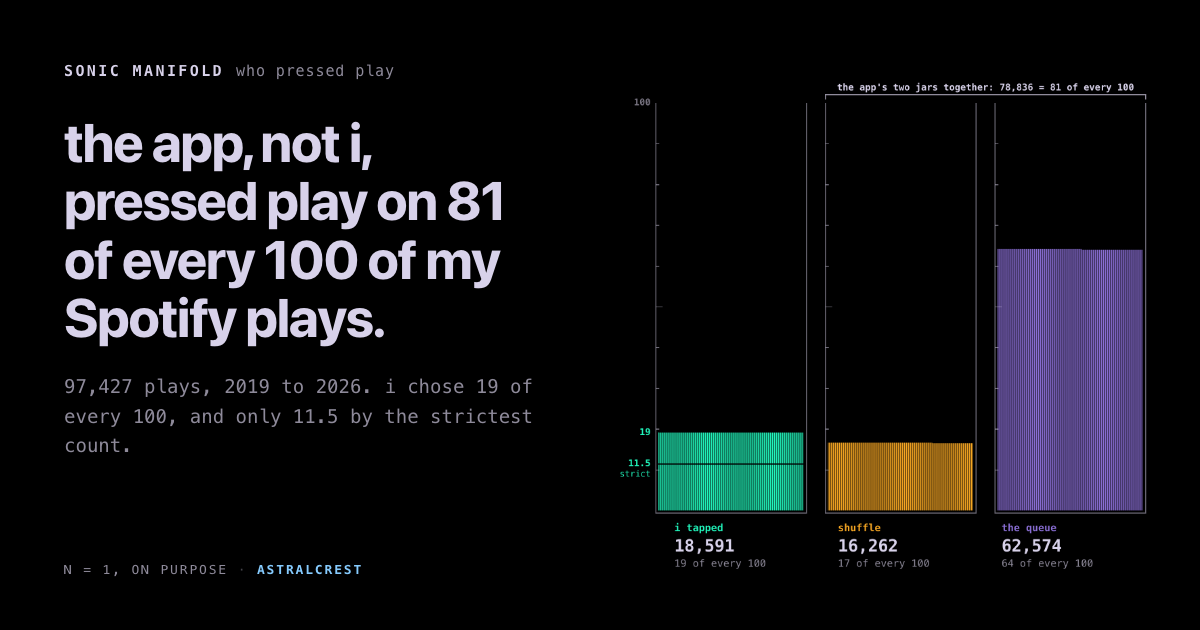
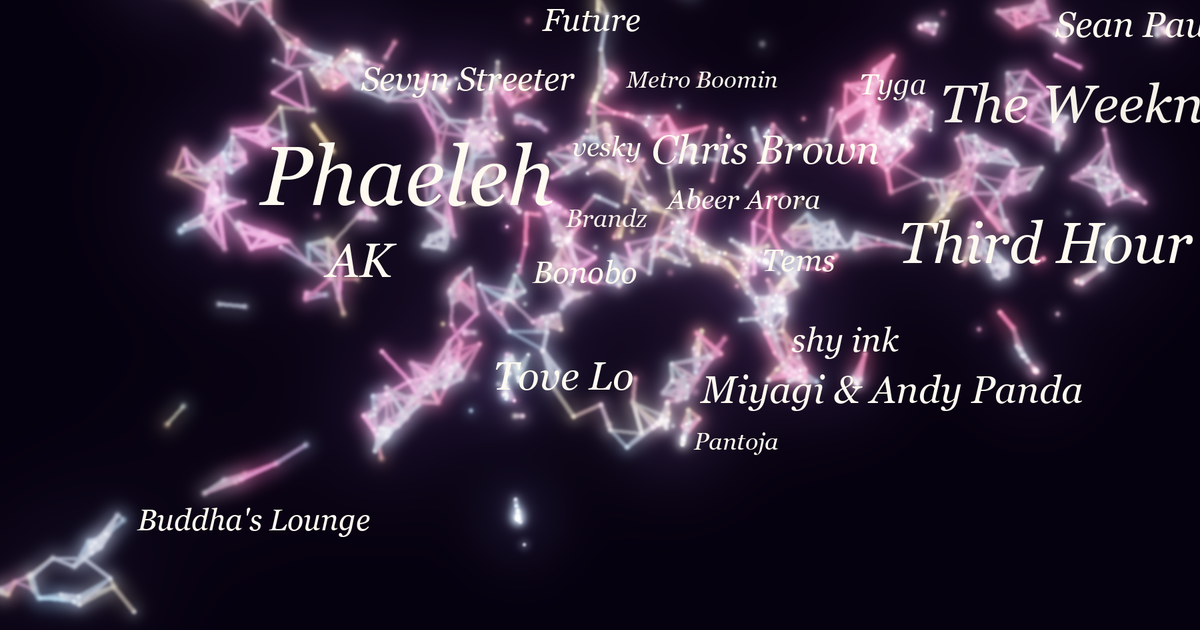
update

diff --git a/front/template.html b/front/template.html
@@ -151,7 +151,7 @@ html.in-met #when{opacity:1}
 <main id="argument">
 <section class="act" id="act-count" aria-labelledby="hl">
   <div class="copy">
-    <p class="k">one listener's log · 97,427 plays · 2019 to 2026</p>
+    <p class="k">i · the count · one listener's log · 97,427 plays · 2019 to 2026</p>
     <h1 id="hl">i pressed play on <b class="t">19</b> of every 100. shuffle picked <b class="s">17</b>. the queue served <b class="v">64</b>.</h1>
     <p class="so">every play as a mote of light, colored by whose hand started it. the app runs most of my days.</p>
     <p class="sub">hover a month. the clock turns the same plays by hour of day. the strictest count keeps only the play button, the track row and the remote.</p>
@@ -162,7 +162,7 @@ html.in-met #when{opacity:1}
 </section>
 <section class="act" id="act-shape" aria-labelledby="h-shape">
   <div class="copy">
-    <p class="k">the same plays, gathered into 1,986 artists</p>
+    <p class="k">ii · the shape · the same plays, gathered into 1,986 artists</p>
     <h2 id="h-shape">my taste has a shape. the app lives in one corner of it.</h2>
     <p class="so">stars placed by the evenings they shared. where it pools violet, the app chose. where it goes mint, i did.</p>
     <p class="sub">drag to turn the sky. tap a star and it sings. the families light one constellation at a time.</p>
@@ -173,7 +173,7 @@ html.in-met #when{opacity:1}
 </section>
 <section class="act" id="act-met" aria-labelledby="h-met">
   <div class="copy">
-    <p class="k">scroll, and the years pass</p>
+    <p class="k">iii · who introduced us · scroll, and the years pass</p>
     <h2 id="h-met">the ones i went looking for stayed.</h2>
     <p class="so">each spark is an artist appearing the month we met, lit by the hand that pressed first. ash when the last play passes.</p>
     <p id="tally"></p>
@@ -183,7 +183,7 @@ html.in-met #when{opacity:1}
 </section>
 <section class="act" id="act-body" aria-labelledby="h-body">
   <div class="copy">
-    <p class="k">seven pre-declared tests · the music, the watch, the ring</p>
+    <p class="k">iv · the body · seven pre-declared tests · the music, the watch, the ring</p>
     <h2 id="h-body">i looked seven ways for my body answering the music. it never did.</h2>
     <p class="so">the quiet lines are nulls inside the smallest effect each test could have seen. the rose lines died. the crosses are claims that died before them.</p>
     <p class="sub">tap a trace or a cross. the album's own pulse moves the lines that were allowed to move; it never moves the nulls.</p>
@@ -193,9 +193,10 @@ html.in-met #when{opacity:1}
 </section>
 <section class="act" id="act-record" aria-labelledby="h-record">
   <div class="copy">
-    <p class="k">every play, pressed into one record</p>
+    <p class="k">v · the record · every play, pressed into one record</p>
     <h2 id="h-record">the last word is the record.</h2>
     <p class="so">97,427 plays as grooves of light, 2019 at the rim, 2026 at the center. one groove per month, mint where i pressed, violet where the queue did.</p>
+    <p class="num">after the seven in the body, ten more pre-declared tests on the log and on the sound: three died, one reversed, six are directions or curves. what held everywhere: hip-hop/r&amp;b i reach for, ambient/lofi reaches me through the app, and the map of who shared my evenings is not the map of what sounds alike.</p>
     <div class="bar"><button type="button" class="chip b-deeper" data-act="record">deeper</button></div>
   </div>
 </section>

diff --git a/index.html b/index.html
@@ -151,7 +151,7 @@ html.in-met #when{opacity:1}
 <main id="argument">
 <section class="act" id="act-count" aria-labelledby="hl">
   <div class="copy">
-    <p class="k">one listener's log · 97,427 plays · 2019 to 2026</p>
+    <p class="k">i · the count · one listener's log · 97,427 plays · 2019 to 2026</p>
     <h1 id="hl">i pressed play on <b class="t">19</b> of every 100. shuffle picked <b class="s">17</b>. the queue served <b class="v">64</b>.</h1>
     <p class="so">every play as a mote of light, colored by whose hand started it. the app runs most of my days.</p>
     <p class="sub">hover a month. the clock turns the same plays by hour of day. the strictest count keeps only the play button, the track row and the remote.</p>
@@ -162,7 +162,7 @@ html.in-met #when{opacity:1}
 </section>
 <section class="act" id="act-shape" aria-labelledby="h-shape">
   <div class="copy">
-    <p class="k">the same plays, gathered into 1,986 artists</p>
+    <p class="k">ii · the shape · the same plays, gathered into 1,986 artists</p>
     <h2 id="h-shape">my taste has a shape. the app lives in one corner of it.</h2>
     <p class="so">stars placed by the evenings they shared. where it pools violet, the app chose. where it goes mint, i did.</p>
     <p class="sub">drag to turn the sky. tap a star and it sings. the families light one constellation at a time.</p>
@@ -173,7 +173,7 @@ html.in-met #when{opacity:1}
 </section>
 <section class="act" id="act-met" aria-labelledby="h-met">
   <div class="copy">
-    <p class="k">scroll, and the years pass</p>
+    <p class="k">iii · who introduced us · scroll, and the years pass</p>
     <h2 id="h-met">the ones i went looking for stayed.</h2>
     <p class="so">each spark is an artist appearing the month we met, lit by the hand that pressed first. ash when the last play passes.</p>
     <p id="tally"></p>
@@ -183,7 +183,7 @@ html.in-met #when{opacity:1}
 </section>
 <section class="act" id="act-body" aria-labelledby="h-body">
   <div class="copy">
-    <p class="k">seven pre-declared tests · the music, the watch, the ring</p>
+    <p class="k">iv · the body · seven pre-declared tests · the music, the watch, the ring</p>
     <h2 id="h-body">i looked seven ways for my body answering the music. it never did.</h2>
     <p class="so">the quiet lines are nulls inside the smallest effect each test could have seen. the rose lines died. the crosses are claims that died before them.</p>
     <p class="sub">tap a trace or a cross. the album's own pulse moves the lines that were allowed to move; it never moves the nulls.</p>
@@ -193,9 +193,10 @@ html.in-met #when{opacity:1}
 </section>
 <section class="act" id="act-record" aria-labelledby="h-record">
   <div class="copy">
-    <p class="k">every play, pressed into one record</p>
+    <p class="k">v · the record · every play, pressed into one record</p>
     <h2 id="h-record">the last word is the record.</h2>
     <p class="so">97,427 plays as grooves of light, 2019 at the rim, 2026 at the center. one groove per month, mint where i pressed, violet where the queue did.</p>
+    <p class="num">after the seven in the body, ten more pre-declared tests on the log and on the sound: three died, one reversed, six are directions or curves. what held everywhere: hip-hop/r&amp;b i reach for, ambient/lofi reaches me through the app, and the map of who shared my evenings is not the map of what sounds alike.</p>
     <div class="bar"><button type="button" class="chip b-deeper" data-act="record">deeper</button></div>
   </div>
 </section>
